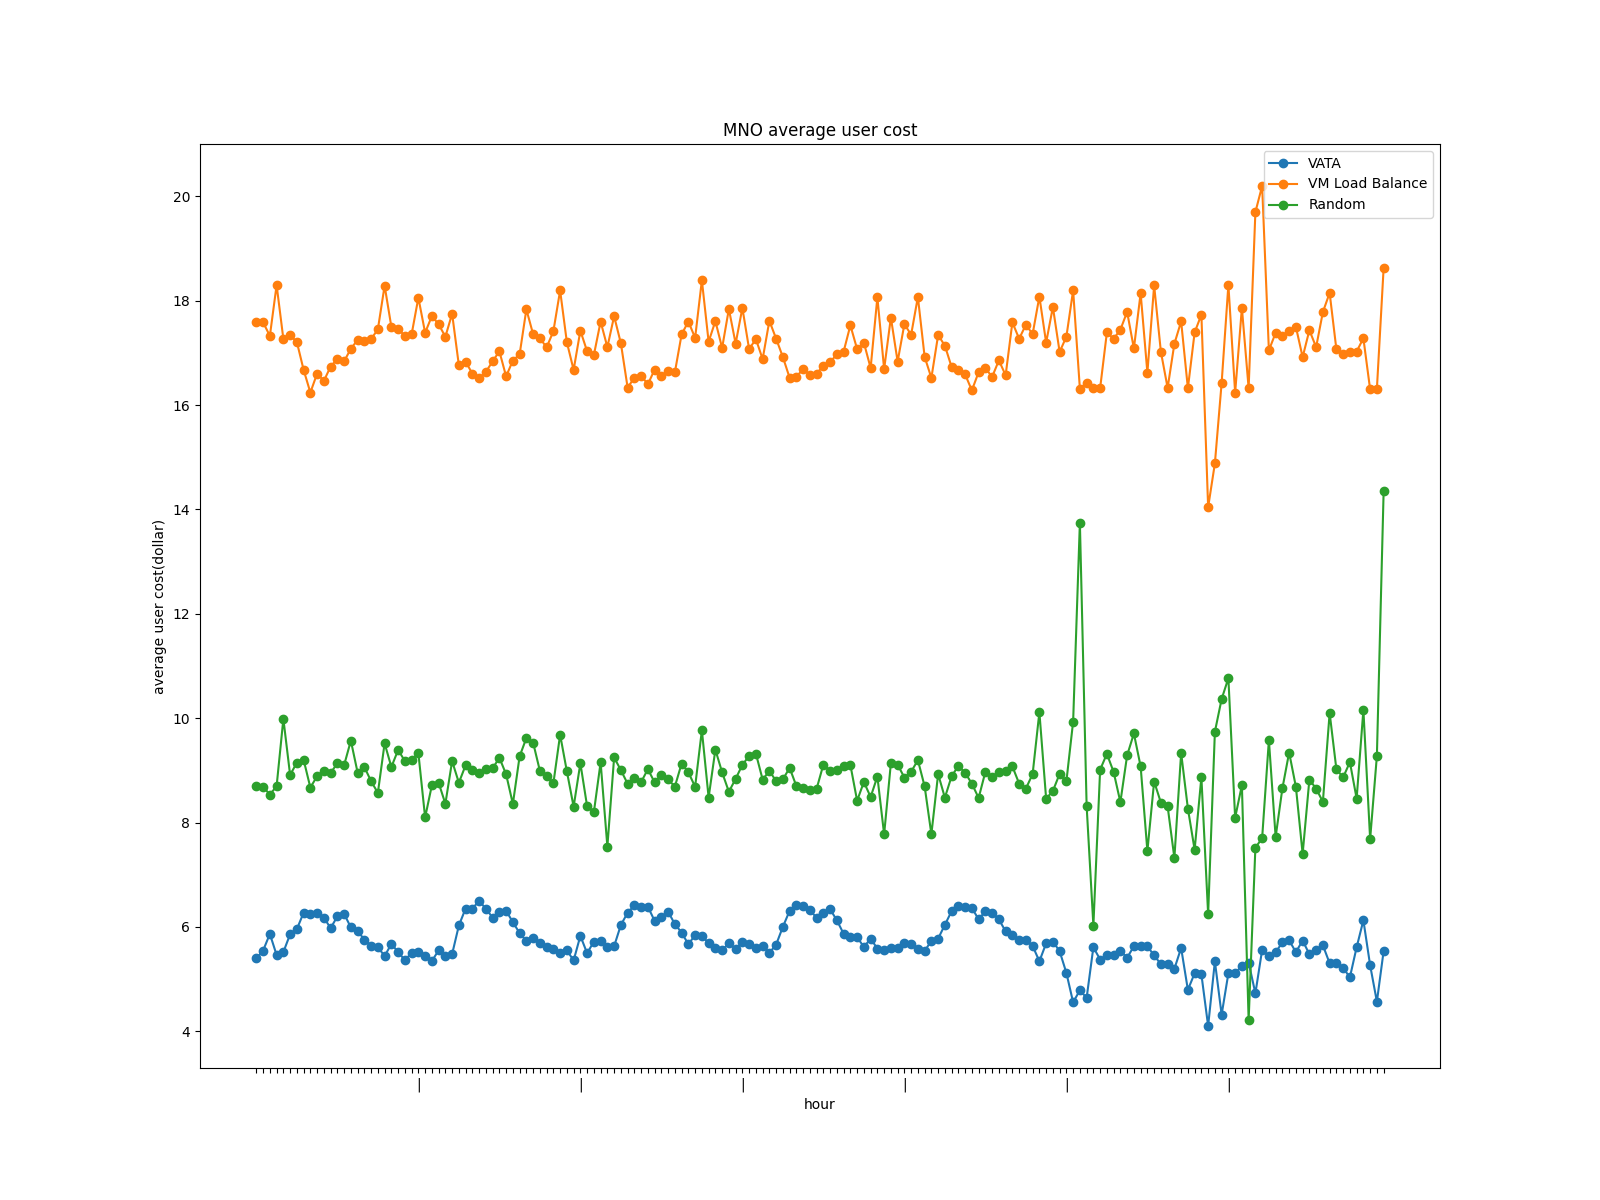
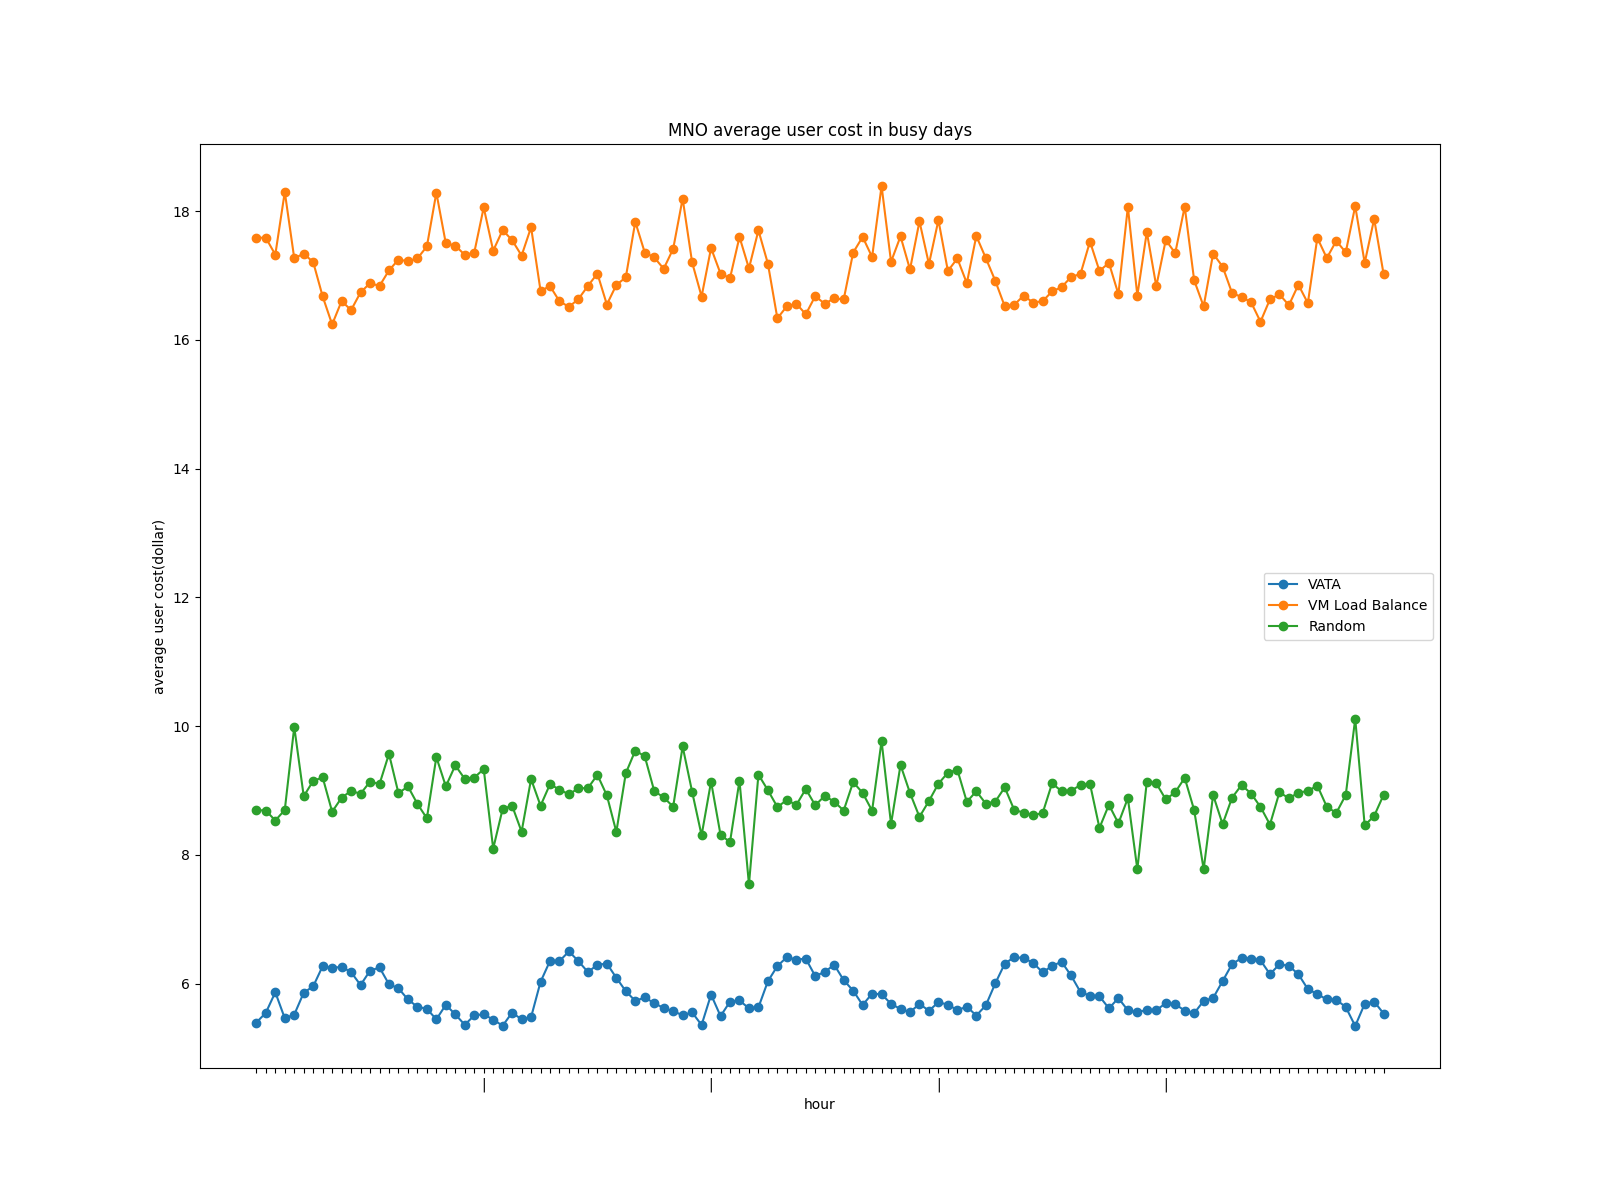
Optimize plotting format.

diff --git a/plot_metrics_compare.py b/plot_metrics_compare.py
@@ -34,7 +34,7 @@ def fill_zero_fitness(fitness):
                 if i == 0:
                     fitness[i, task] = fitness[i + 1, task]
                 elif i == 119:
-                    fitness[i, task] == fitness[i - 1, task]
+                    fitness[i, task] = fitness[i - 1, task]
                 else:
                     fitness[i, task] = (fitness[i - 1, task] + fitness[i + 1, task]) / 2
 fill_zero_fitness(data[0]['mno_task_fitness'])
@@ -107,7 +107,7 @@ def plot_2dim_line(data1, data2, data3):
 
 ###########################
 
-def plot_3x3(metric, op, plt_title, xlabel, file_title):
+def plot_3x3(metric, op, plt_title, xlabel, file_title, ylim):
     if xlabel == 'round':
         plt_func = plot_2dim_bar
     elif xlabel == 'hour':
@@ -120,18 +120,24 @@ def plot_3x3(metric, op, plt_title, xlabel, file_title):
     plt.xlabel(xlabel)
     plt.ylabel('computing resource (GCUs/s)')
     plt_func(data[0][metric][:, 0, 0], data[1][metric][:, 0, 0], data[2][metric][:, 0, 0])
+    if ylim:
+        plt.ylim(*ylim)
     ## IP Video
     plt.subplot(312)
     plt.title(f'{plt_title} computing resource - IP Video')
     plt.xlabel(xlabel)
     plt.ylabel('computing resource (GCUs/s)')
     plt_func(data[0][metric][:, 1, 0], data[1][metric][:, 1, 0], data[2][metric][:, 1, 0])
+    if ylim:
+        plt.ylim(*ylim)
     ## FTP
     plt.subplot(313)
     plt.title(f'{plt_title} computing resource - FTP')
     plt.xlabel(xlabel)
     plt.ylabel('computing resource (GCUs/s)')
     plt_func(data[0][metric][:, 2, 0], data[1][metric][:, 2, 0], data[2][metric][:, 2, 0])
+    if ylim:
+        plt.ylim(*ylim)
     plt.savefig(_dir + op + f'{file_title}_cr')
     # uplink throughput
     plt.figure(figsize=figsize)
@@ -141,18 +147,24 @@ def plot_3x3(metric, op, plt_title, xlabel, file_title):
     plt.xlabel(xlabel)
     plt.ylabel('throughput (Kbps)')
     plt_func(data[0][metric][:, 0, 1], data[1][metric][:, 0, 1], data[2][metric][:, 0, 1])
+    if ylim:
+        plt.ylim(*ylim)
     ## IP Video
     plt.subplot(312)
     plt.title(f'{plt_title} uplink throughput - IP Video')
     plt.xlabel(xlabel)
     plt.ylabel('throughput (Kbps)')
     plt_func(data[0][metric][:, 1, 1], data[1][metric][:, 1, 1], data[2][metric][:, 1, 1])
+    if ylim:
+        plt.ylim(*ylim)
     ## FTP
     plt.subplot(313)
     plt.title(f'{plt_title} uplink throughput - FTP')
     plt.xlabel(xlabel)
     plt.ylabel('throughput (Kbps)')
     plt_func(data[0][metric][:, 2, 1], data[1][metric][:, 2, 1], data[2][metric][:, 2, 1])
+    if ylim:
+        plt.ylim(*ylim)
     plt.savefig(_dir + op + f'{file_title}_T_up')
     # downlink throughput
     plt.figure(figsize=figsize)
@@ -162,21 +174,27 @@ def plot_3x3(metric, op, plt_title, xlabel, file_title):
     plt.xlabel(xlabel)
     plt.ylabel('throughput (Kbps)')
     plt_func(data[0][metric][:, 0, 2], data[1][metric][:, 0, 2], data[2][metric][:, 0, 2])
+    if ylim:
+        plt.ylim(*ylim)
     ## IP Video
     plt.subplot(312)
     plt.title(f'{plt_title} downlink throughput - IP Video')
     plt.xlabel(xlabel)
     plt.ylabel('throughput (Kbps)')
     plt_func(data[0][metric][:, 1, 2], data[1][metric][:, 1, 2], data[2][metric][:, 1, 2])
+    if ylim:
+        plt.ylim(*ylim)
     ## FTP
     plt.subplot(313)
     plt.title(f'{plt_title} downlink throughput - FTP')
     plt.xlabel(xlabel)
     plt.ylabel('throughput (Kbps)')
     plt_func(data[0][metric][:, 2, 2], data[1][metric][:, 2, 2], data[2][metric][:, 2, 2])
+    if ylim:
+        plt.ylim(*ylim)
     plt.savefig(_dir + op + f'{file_title}_T_down')
 
-def plot_2d(metric, op, plt_title, ylabel, file_title):
+def plot_2d(metric, op, plt_title, ylabel, file_title, ylim):
     _data1, _data2, _data3 = data[0][metric][:120], data[1][metric][:120], data[2][metric][:120]
     plt.figure(figsize=figsize)
     # VoIP
@@ -185,26 +203,36 @@ def plot_2d(metric, op, plt_title, ylabel, file_title):
     plt.xlabel('hour')
     plt.ylabel(ylabel)
     plot_2dim_line(_data1[:, 0], _data2[:, 0], _data3[:, 0])
+    if ylim:
+        plt.ylim(*ylim)
     # IP Video
     plt.subplot(312)
     plt.title(f'{plt_title} - IP Video')
     plt.xlabel('hour')
     plt.ylabel(ylabel)
     plot_2dim_line(_data1[:, 1], _data2[:, 1], _data3[:, 1])
+    if ylim:
+        plt.ylim(*ylim)
     # FTP
     plt.subplot(313)
     plt.title(f'{plt_title} - FTP')
     plt.xlabel('hour')
     plt.ylabel(ylabel)
     plot_2dim_line(_data1[:, 2], _data2[:, 2], _data3[:, 2])
+    if ylim:
+        plt.ylim(*ylim)
     plt.savefig(_dir + op + file_title)
 
-def plot_1d(metric, fig_title, xlabel, ylabel, file_name, plot_func):
+def plot_1d(metric, fig_title, xlabel, ylabel, file_name, plot_func, ylim):
+    if metric == 'mno_user_cost' or metric == 'mvno_user_cost':
+        data[0][metric], data[1][metric], data[2][metric] = data[0][metric][:120], data[1][metric][:120], data[2][metric][:120]
     plt.figure(figsize=figsize)
     plt.title(fig_title)
     plt.xlabel(xlabel)
     plt.ylabel(ylabel)
     plot_func(data[0][metric], data[1][metric], data[2][metric])
+    if ylim:
+        plt.ylim(*ylim)
     plt.savefig(_dir + file_name)
 
 ########################## 
@@ -303,20 +331,20 @@ def plot_cloud_edge_task_num(metric1, metric2, op):
 
 ##########################
 
-plot_3x3('mno_vm_resource', 'MNO/', 'MNO VM', 'round', 'vm_resource')
-plot_3x3('mvno_vm_resource', 'MVNO/', 'MVNO VM', 'round', 'vm_resource')
-plot_1d('mvno_vm_cost', 'MVNO VM cost', 'round', 'VM total cost(dollar)', 'MVNO/vm_cost', plot_2dim_line)
-plot_2d('mno_task_fitness', 'MNO/', 'MNO task fitness in busy days', 'fitness', 'task_fitness')
-plot_3x3('mno_task_resource', 'MNO/', 'MNO task', 'hour', 'task_resource')
-plot_2d('mvno_task_fitness', 'MVNO/', 'MVNO task fitness in busy days', 'fitness', 'task_fitness')
-plot_3x3('mvno_task_resource', 'MVNO/', 'MVNO task', 'hour', 'task_resource')
-plot_2d('mno_block_rate', 'MNO/', 'MNO task blocking ratio', 'blocking ratio', 'task_block_rate')
-plot_2d('mvno_block_rate', 'MVNO/', 'MVNO task blocking ratio', 'blocking ratio', 'task_block_rate')
-plot_1d('mno_user_cost', 'MNO average user cost', 'hour', 'average user cost(dollar)', 'MNO/user_cost', plot_2dim_line)
-plot_1d('mvno_user_cost', 'MVNO average user cost', 'hour', 'average user cost(dollar)', 'MVNO/user_cost', plot_2dim_line)
+plot_3x3('mno_vm_resource', 'MNO/', 'MNO VM', 'round', 'vm_resource', None)
+plot_3x3('mvno_vm_resource', 'MVNO/', 'MVNO VM', 'round', 'vm_resource', None)
+plot_1d('mvno_vm_cost', 'MVNO VM cost', 'round', 'VM total cost(dollar)', 'MVNO/vm_cost', plot_2dim_line, None)
+plot_2d('mno_task_fitness', 'MNO/', 'MNO task average utility in busy days', 'average utility', 'task_fitness', (0, 100))
+plot_3x3('mno_task_resource', 'MNO/', 'MNO task', 'hour', 'task_resource', None)
+plot_2d('mvno_task_fitness', 'MVNO/', 'MVNO task average utility in busy days', 'average utility', 'task_fitness', (0, 100))
+plot_3x3('mvno_task_resource', 'MVNO/', 'MVNO task', 'hour', 'task_resource', None)
+plot_2d('mno_block_rate', 'MNO/', 'MNO task blocking ratio', 'blocking ratio', 'task_block_rate', (0, 1))
+plot_2d('mvno_block_rate', 'MVNO/', 'MVNO task blocking ratio', 'blocking ratio', 'task_block_rate', (0, 1))
+plot_1d('mno_user_cost', 'MNO average user cost in busy days', 'hour', 'average user cost(dollar)', 'MNO/user_cost', plot_2dim_line, None)
+plot_1d('mvno_user_cost', 'MVNO average user cost in busy days', 'hour', 'average user cost(dollar)', 'MVNO/user_cost', plot_2dim_line, None)
 plot_cloud_edge_task_num('mno_cloud_task_num', 'mno_edge_task_num', 'MNO/')
 plot_cloud_edge_task_num('mvno_cloud_task_num', 'mvno_edge_task_num', 'MVNO/')
-plot_1d('mno_vm_utilization', 'MNO VM utilization', 'round', 'utilization', 'MNO/vm_utilization', plot_2dim_bar)
-plot_1d('mvno_vm_utilization', 'MVNO VM utilization', 'round', 'utilization', 'MVNO/vm_utilization', plot_2dim_bar)
+plot_1d('mno_vm_utilization', 'MNO VM utilization', 'round', 'utilization', 'MNO/vm_utilization', plot_2dim_bar, (0, 1))
+plot_1d('mvno_vm_utilization', 'MVNO VM utilization', 'round', 'utilization', 'MVNO/vm_utilization', plot_2dim_bar, (0, 1))
 
 print(f'Save figs to {_dir}!')
